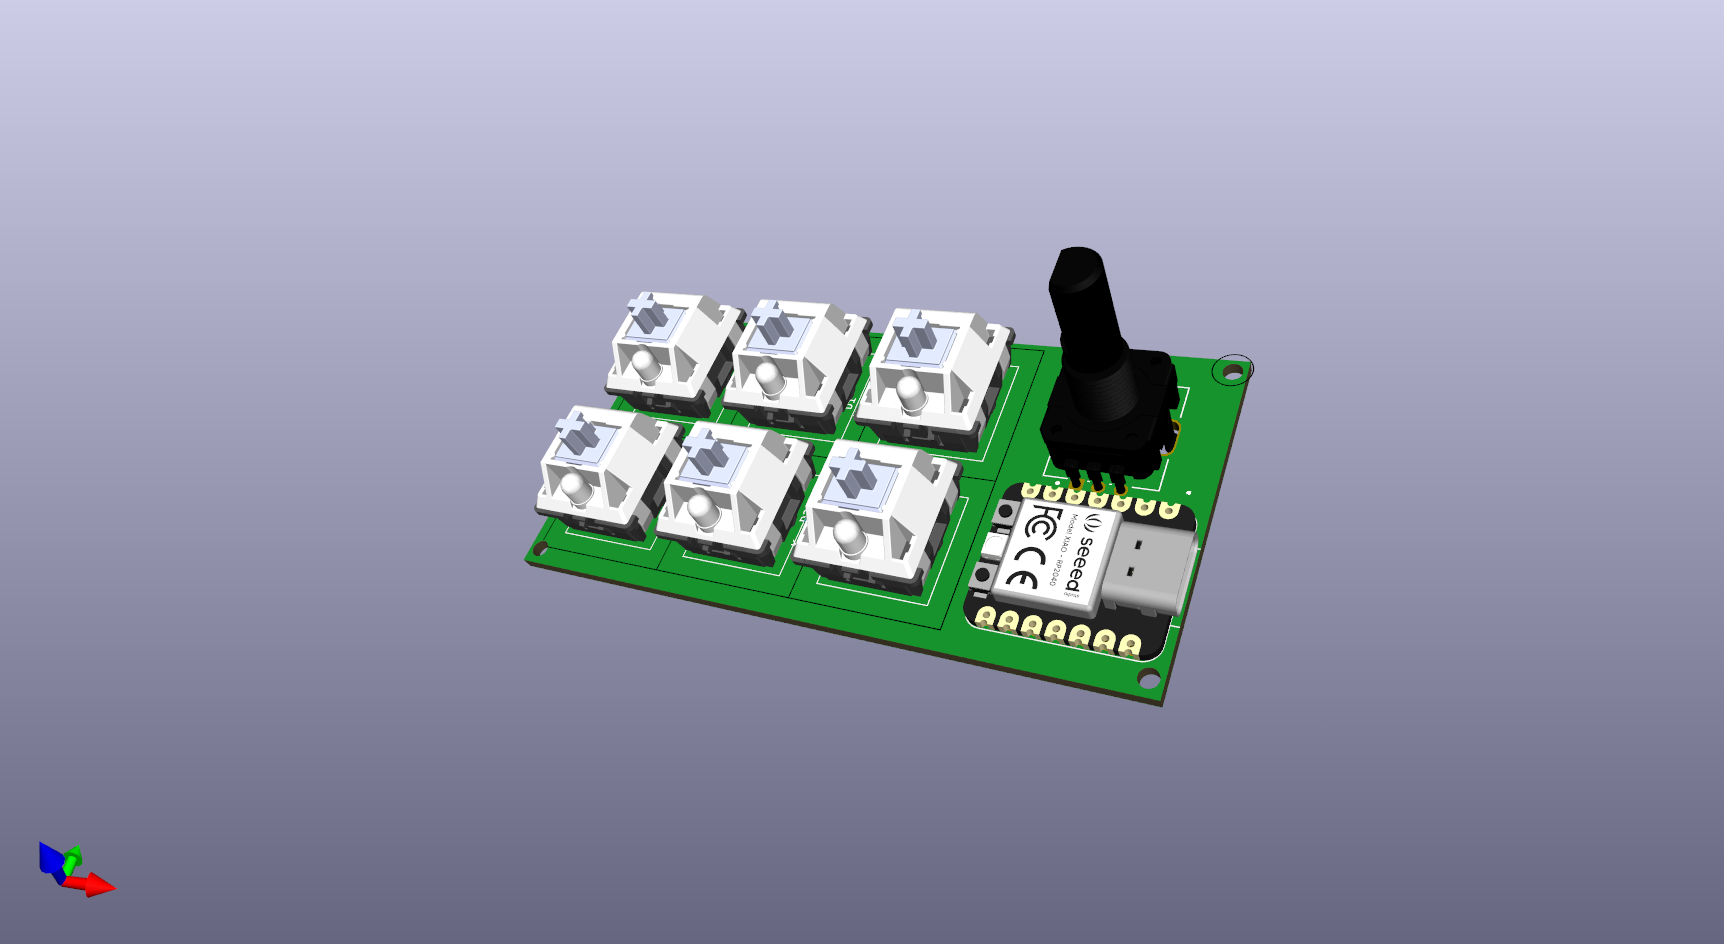
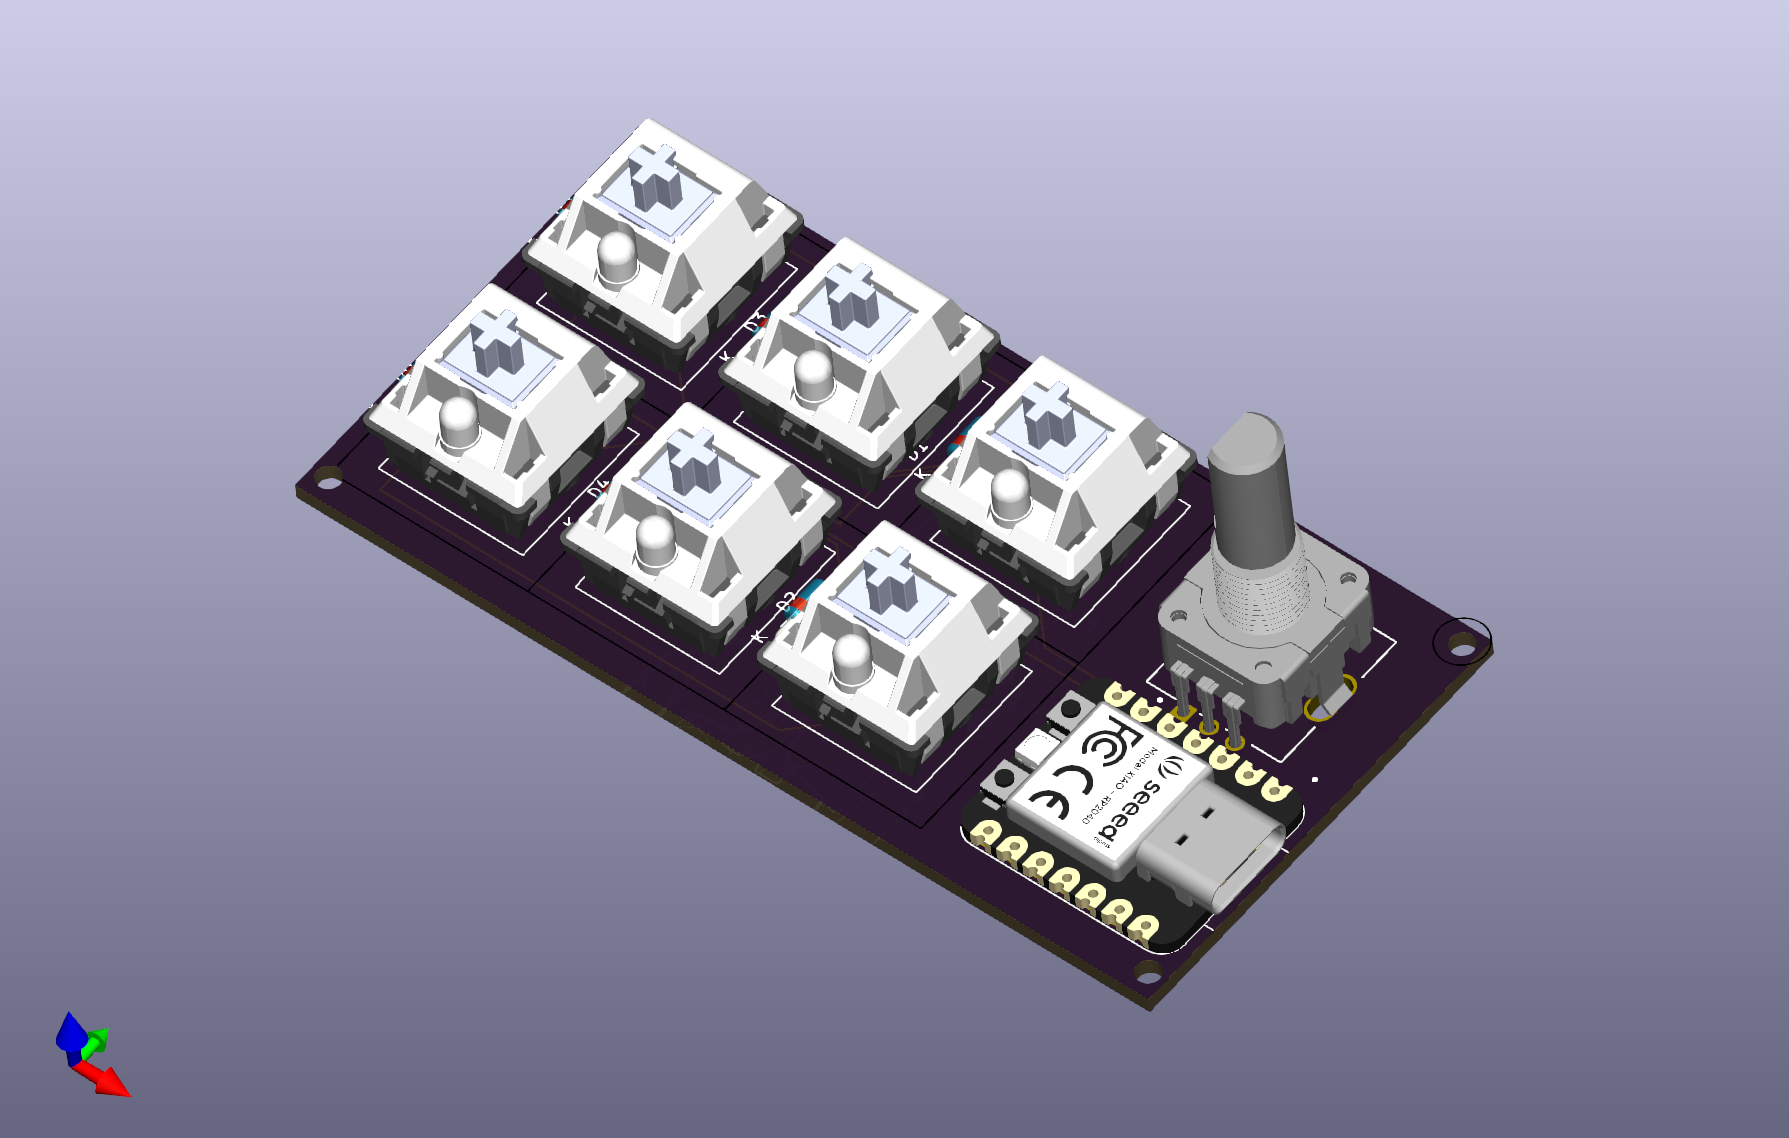
Update again with info

Changed region(s): [[0.1537, 0.0922, 0.8608, 0.8909], [0.0, 0.8909, 0.0615, 0.9523], [0.0615, 0.9523, 0.0922, 0.9831]]

diff --git a/hackpads/WafflePad/README.md b/hackpads/WafflePad/README.md
@@ -3,6 +3,7 @@ My custom HackPad to act as my Up Down Left and Right keys for when i'm using my
 ![Front View of the HackPad](https://github.com/LiveWaffle/WafflePad/blob/main/Ortho.png)
 ![Back View of the HackPad](https://github.com/LiveWaffle/WafflePad/blob/main/OrthoBack.png)
 
+
 | Bill Of Materials  | Quanity |
 | ------------- | ------------- |
 | SW_Cherry_MX_1.00u_PCB | 6 |
@@ -13,8 +14,8 @@ My custom HackPad to act as my Up Down Left and Right keys for when i'm using my
 | M2.5 X 13mm Long, Phillips Pan Head, Stainless Steel Machine Screw | 4 |
 |M2.0 Hex Nuts| 4 |
 |PCB (Purple)| 1 |
-| Top (Acrylic) if possible |
-| Bottom (3d Print) |
+| Top (Acrylic) if possible | Frosted |
+| Bottom (3d Print) | Black |
 
 
 
